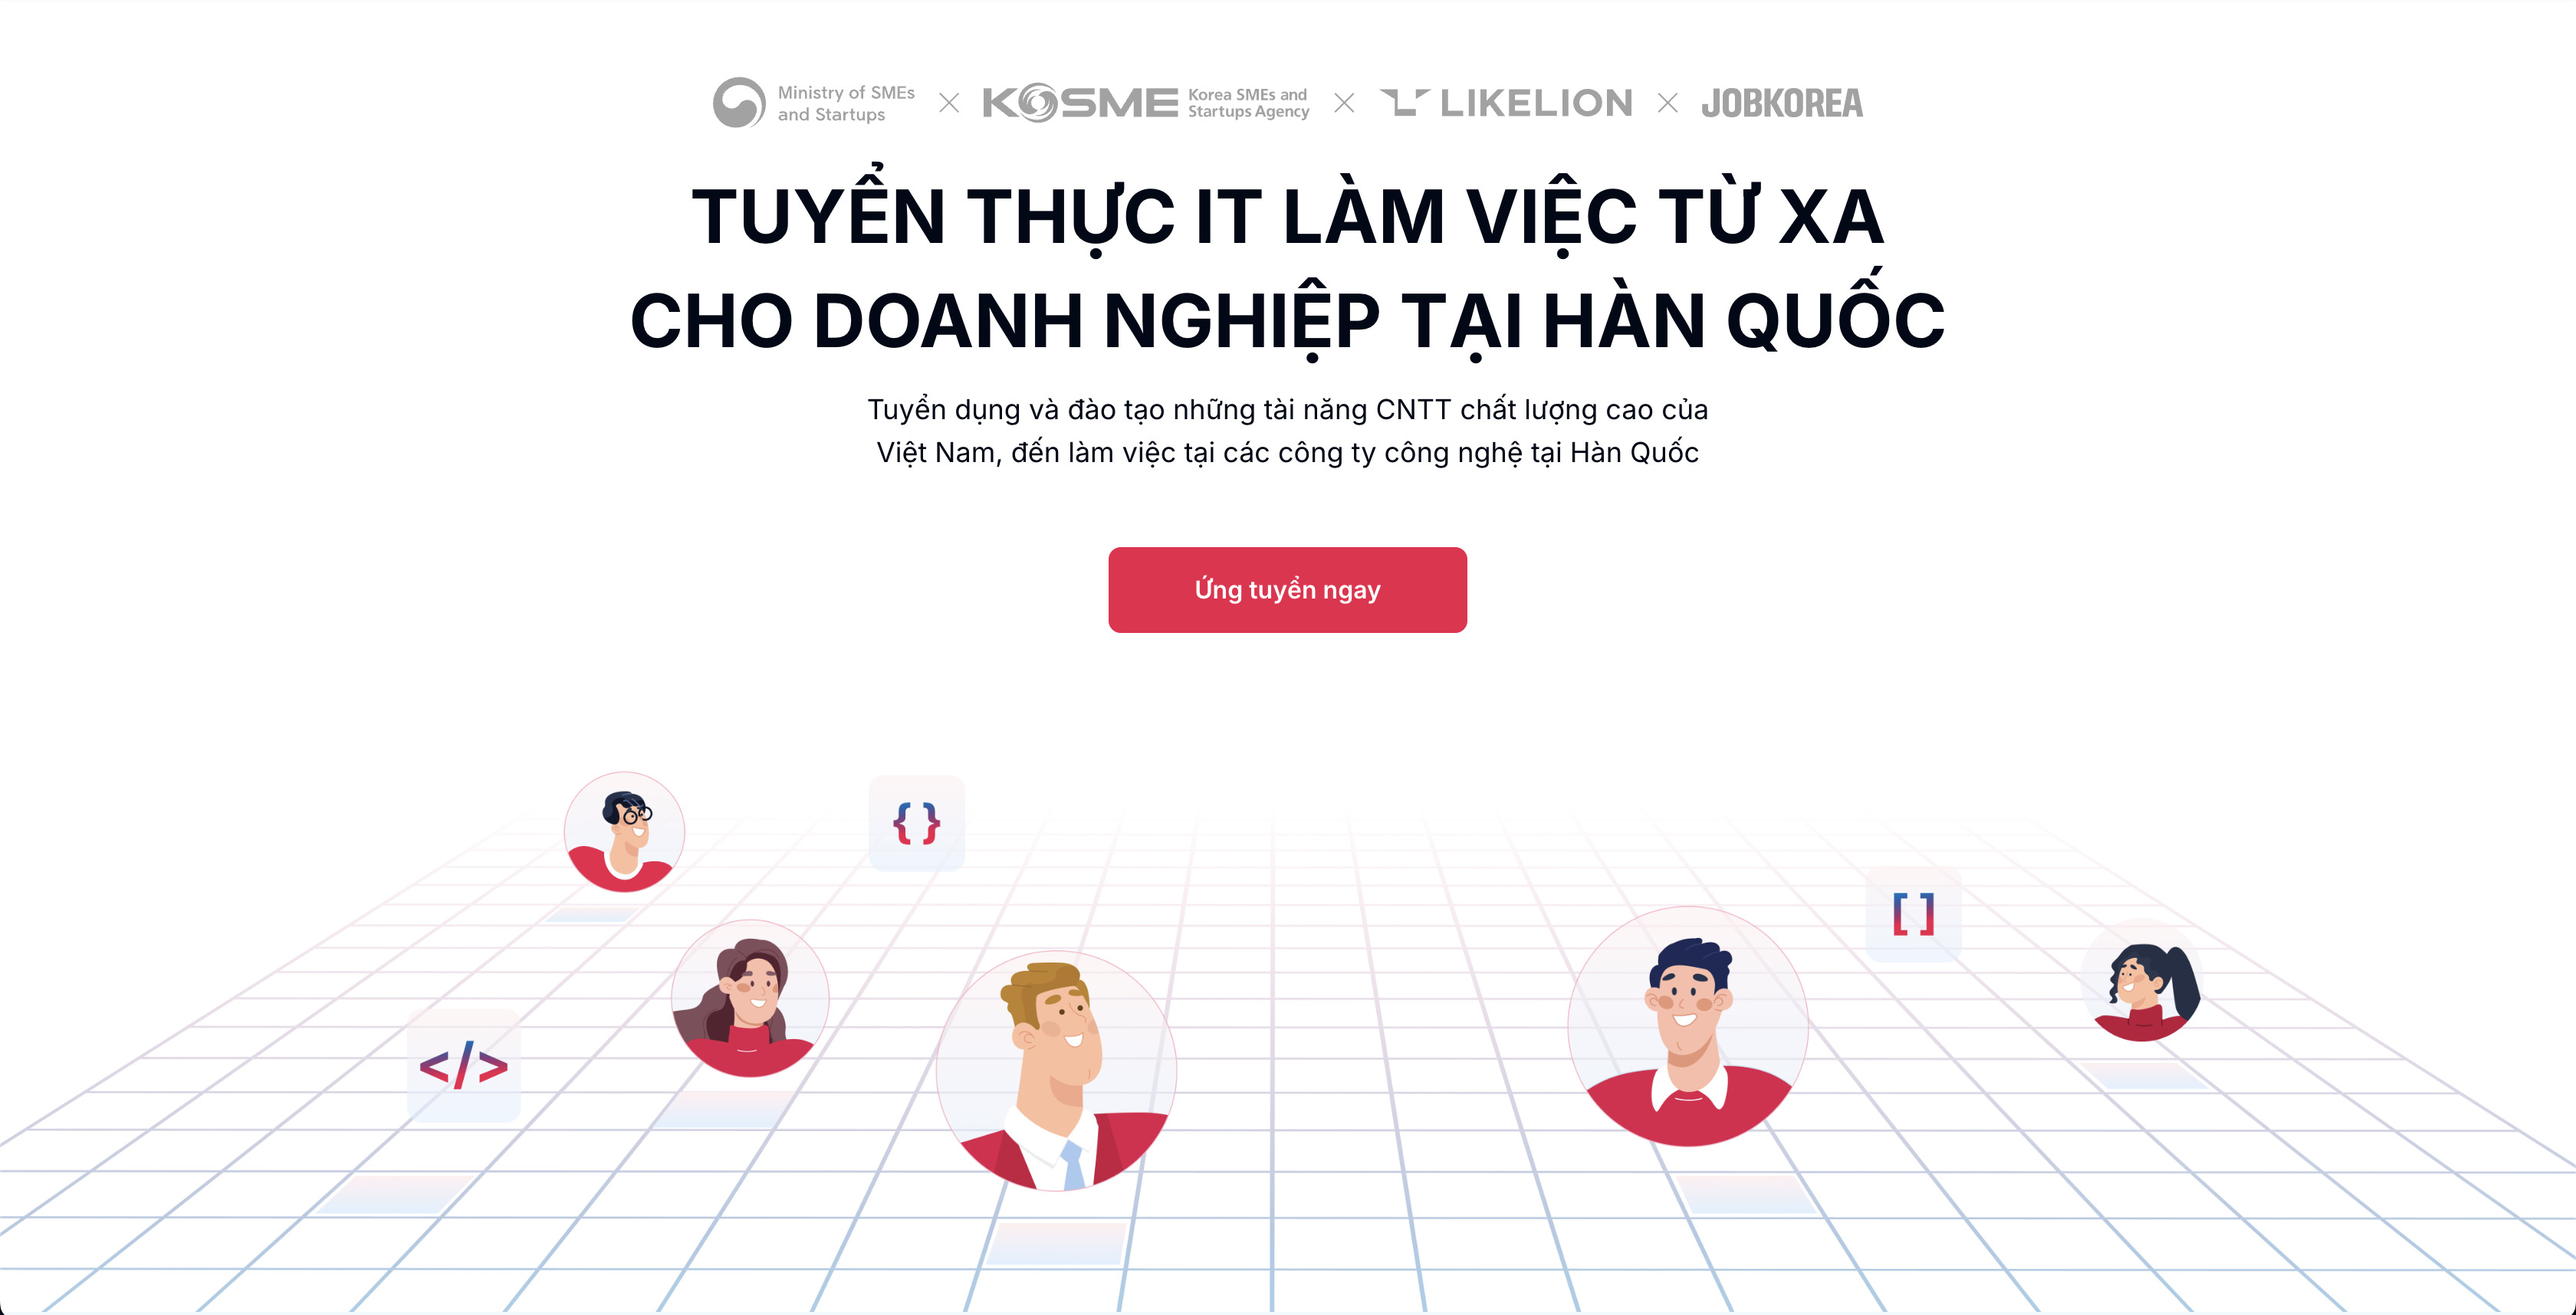
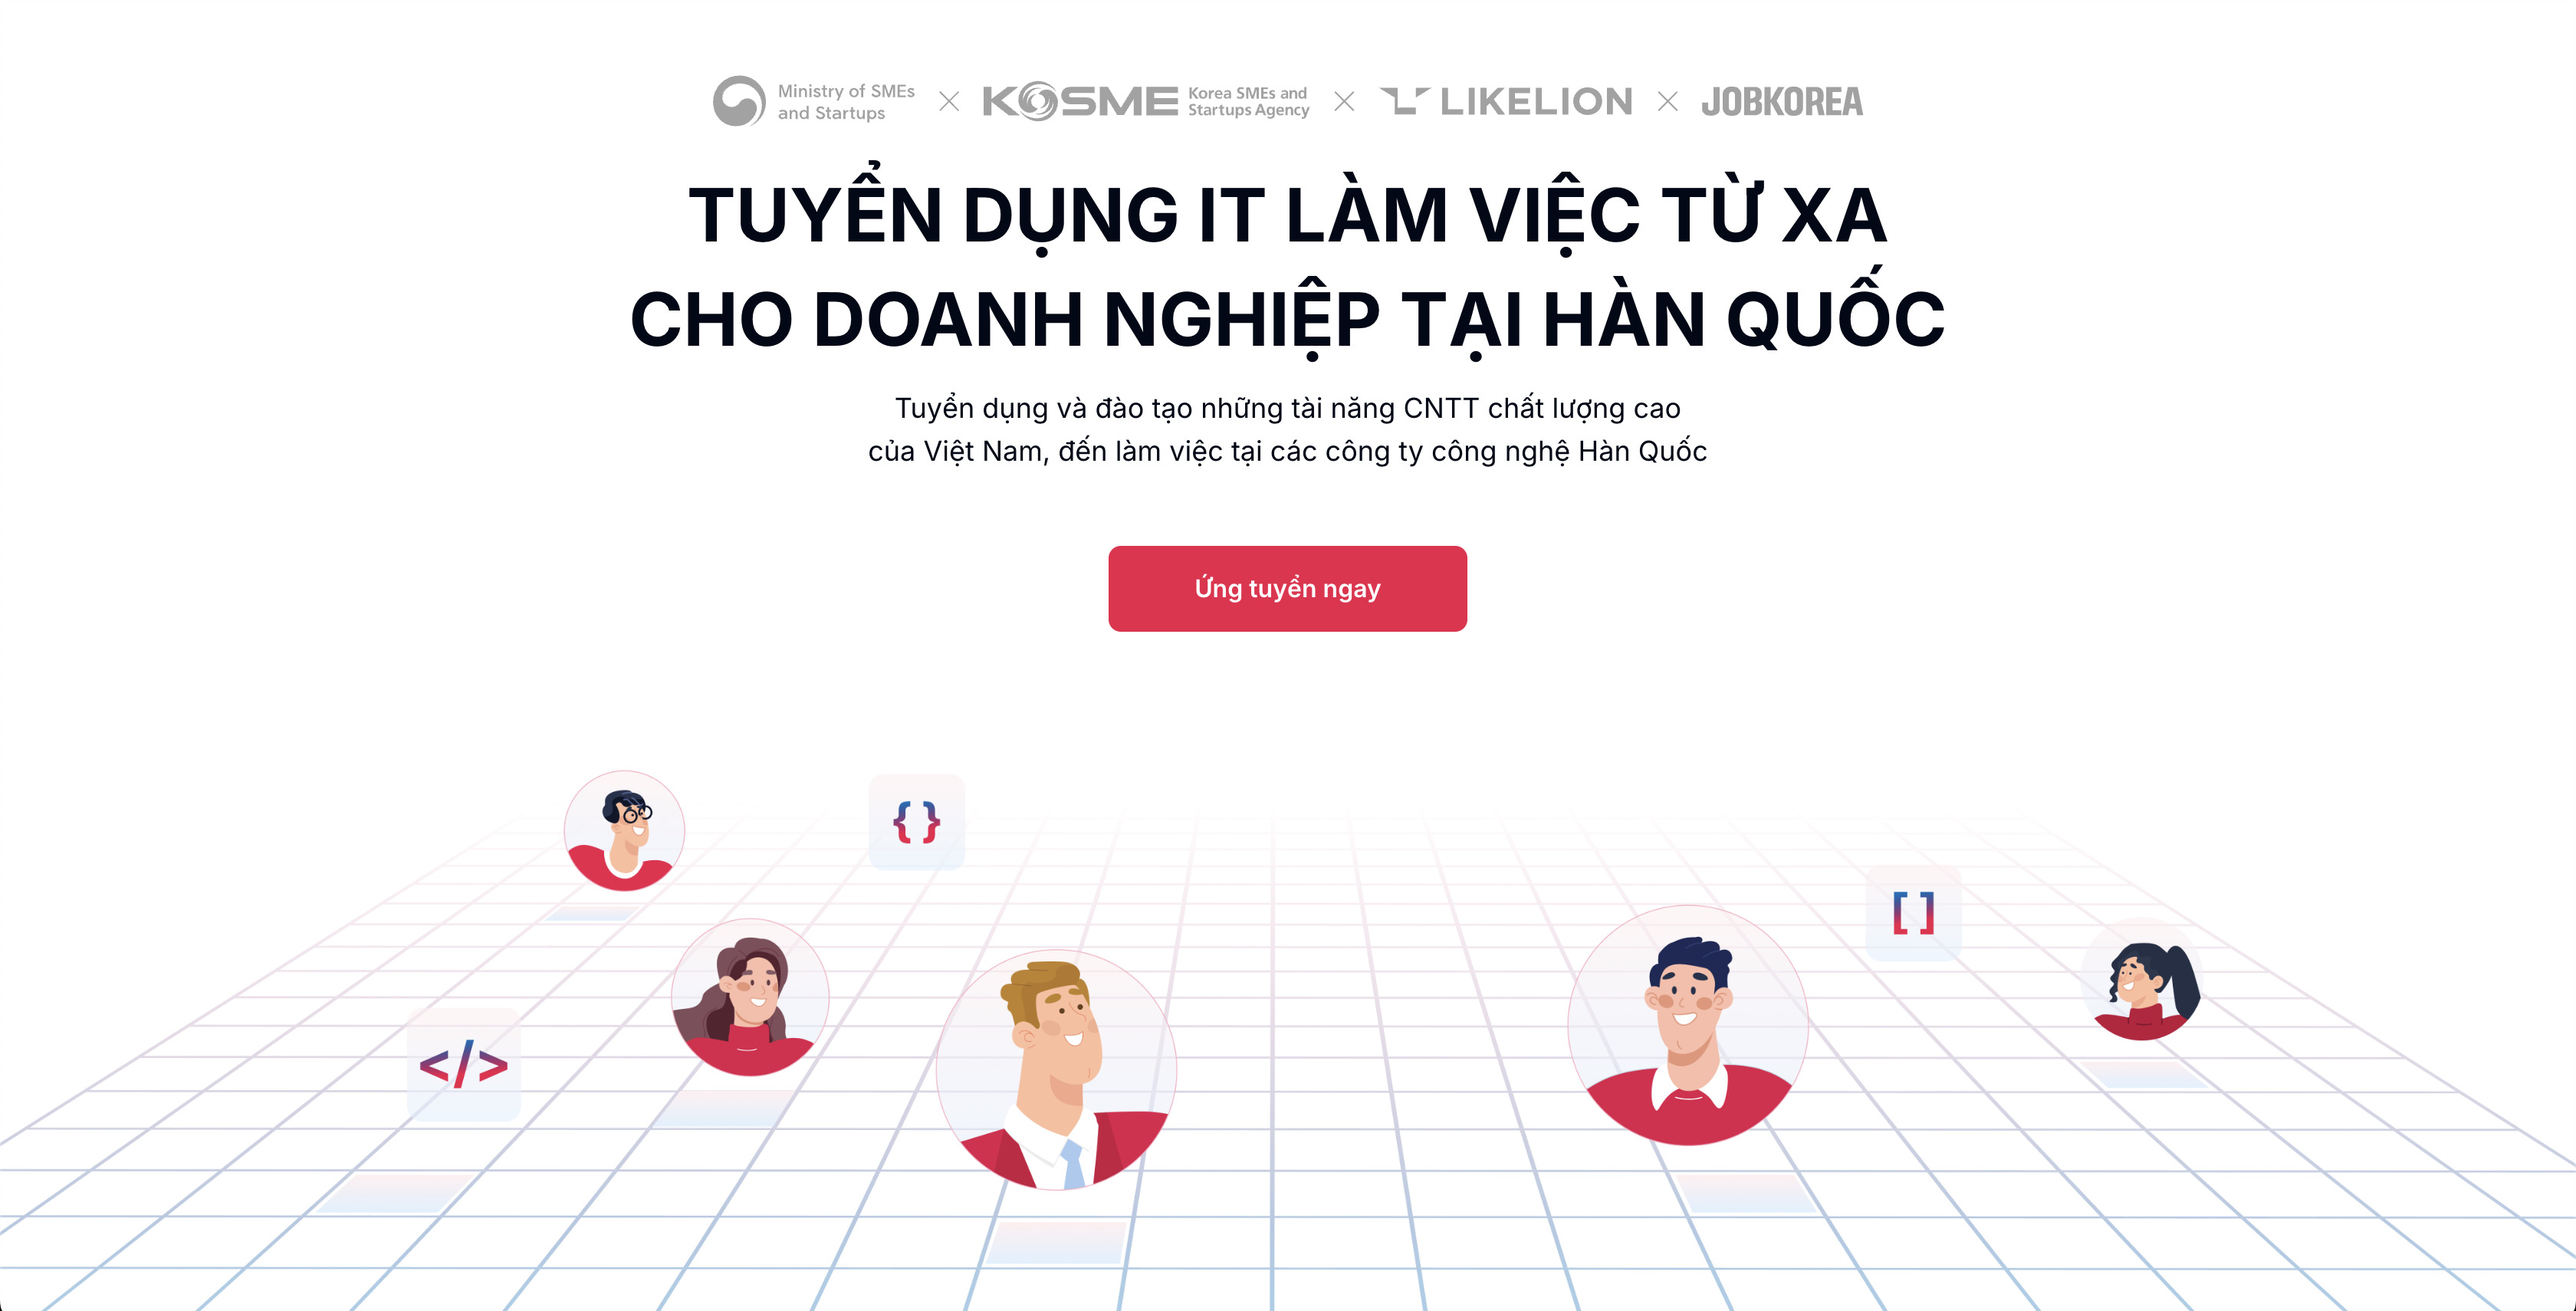
update some content

diff --git a/src/components/process.tsx b/src/components/process.tsx
@@ -6,7 +6,7 @@ const applySteps = [
     description: "CV sceening & Test lập trình",
   },
   {
-    title: "Sơ vấn qua điện thoại",
+    title: "Phỏng vấn sơ bộ",
     description: "Trao đổi nhanh để hiểu rõ kỹ năng & định hướng của ứng viên",
   },
   {
@@ -17,29 +17,6 @@ const applySteps = [
     title: "Đào tạo kỹ năng mềm",
     description:
       "Tham gia lớp đào tạo kỹ năng mềm và onboarding sau khi nhận offer",
-  },
-];
-
-const connectSteps = [
-  {
-    title: "Matching trực tiếp với doanh nghiệp Hàn Quốc",
-    description:
-      "Kết nối ứng viên với các công ty công nghệ phù hợp thông qua hệ thống tuyển dụng chuyên biệt của chương trình.",
-  },
-  {
-    title: "Phỏng vấn và Nhận offer từ các công ty phù hợp",
-    description:
-      "Trực tiếp phỏng vấn cùng doanh nghiệp và tiến tới nhận offer chính thức.",
-  },
-  {
-    title: "Tham gia lớp đào tạo kỹ năng mềm",
-    description:
-      "Ứng viên kết nối thành công sẽ được đào tạo về kỹ năng mềm – giúp dễ dàng thích nghi trong môi trường quốc tế.",
-  },
-  {
-    title: "Onboarding",
-    description:
-      "Hoàn thành đạt yêu cầu lớp đào tạo, ứng viên sẽ chính thức onboarding.",
   },
 ];
 

diff --git a/src/components/hero.tsx b/src/components/hero.tsx
@@ -24,7 +24,7 @@ export default function Hero() {
             <h1 className="mx-auto text-xl sm:text-4xl font-bold lg:text-5xl max-w-sm sm:max-w-md md:max-w-none uppercase">
               <span className="flex items-center justify-center gap-2 flex-wrap">
                 <span className="w-full lg:w-auto">
-                  Tuyển thực IT làm việc từ xa
+                  Tuyển dụng IT làm việc từ xa
                 </span>
               </span>
               <span className="flex items-center gap-2 justify-center flex-wrap bg-clip-text sm:mt-5">
@@ -35,7 +35,7 @@ export default function Hero() {
             </h1>
             <p className="max-w-2xl px-4 mx-auto text-xs md:text-balance lg:text-lg">
               Tuyển dụng và đào tạo những tài năng CNTT chất lượng cao của Việt
-              Nam, đến làm việc tại các công ty công nghệ tại Hàn Quốc
+              Nam, đến làm việc tại các công ty công nghệ Hàn Quốc
             </p>
 
             <div className="flex px-4 flex-col mt-[28px] md:flex-row items-center justify-center text-sm font-medium gap-x-3 gap-y-4 md:!mt-12">

diff --git a/src/components/about-us.tsx b/src/components/about-us.tsx
@@ -12,7 +12,7 @@ const text = [
     description: (
       <div>
         <p>
-          K-Tech College 2025 là <b>chương trình kết nối việc làm và đào tạo</b>{" "}
+          K-Tech College 2025 là <b>chương trình kết nối việc làm</b>{" "}
           dành cho những lập trình viên trẻ tài năng tại Việt Nam, được Chính
           phủ Hàn Quốc tài trợ 100% và LIKELION trực tiếp vận hành.
         </p>

diff --git a/src/components/advantage.tsx b/src/components/advantage.tsx
@@ -14,7 +14,7 @@ export default function Advantage() {
     {
       title:
         "Đa dạng các vị trí tuyển dụng",
-      desc: "Từ Backend, Frontend, Mobile & AI đến Game developer – Cơ hội cho mọi Developer",
+      desc: "Từ Backend, Frontend, Mobile & AI đến Game Developer – Cơ hội cho mọi Developer",
     },
     {
       title: "Hỗ trợ xuyên suốt quá trình ứng tuyển",

diff --git a/src/components/benefits.tsx b/src/components/benefits.tsx
@@ -45,7 +45,7 @@ export default function Benefits() {
               Quyền lợi tham gia
             </h2>
             <p className="mt-8 text-base md:text-xl">
-              Bạn sẽ nhận được gì khi tham gia K-tech college 2025
+              Bạn sẽ nhận được gì khi tham gia K-tech College 2025
             </p>
           </div>
           <div className="mt-[56px] md:mt-[120px] space-y-12">
